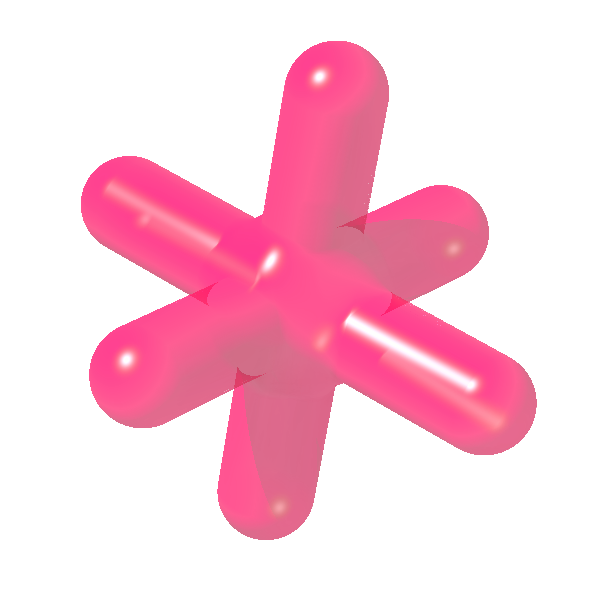
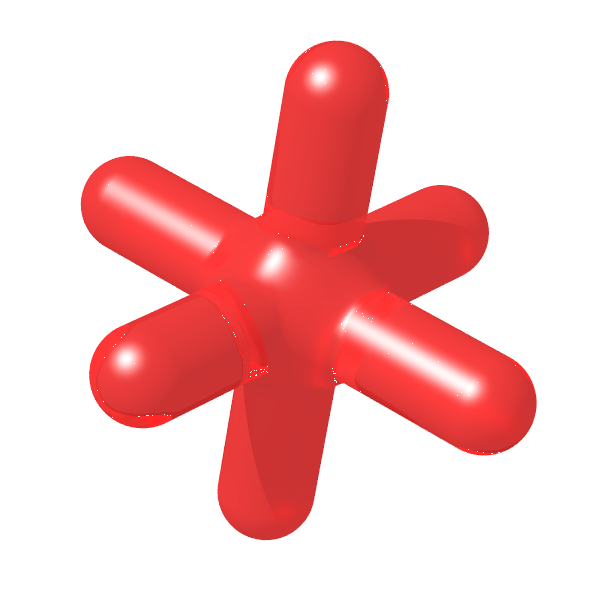
POV-ray changes (imported from Perforce changelist 1180)

diff --git a/Src/BatchRunPOV/Program.cs b/Src/BatchRunPOV/Program.cs
@@ -19,7 +19,7 @@ namespace BatchRunPOV
             if (args.Length > 0)
                 povCommand = args[0];
 
-            string povArgs = "/RENDER -D +W800 +H600 +A1.0";
+            string povArgs = "/RENDER -D +W800 +H600 +A0.1";
 
             List<Process> runningProcesses = new List<Process>();
 
